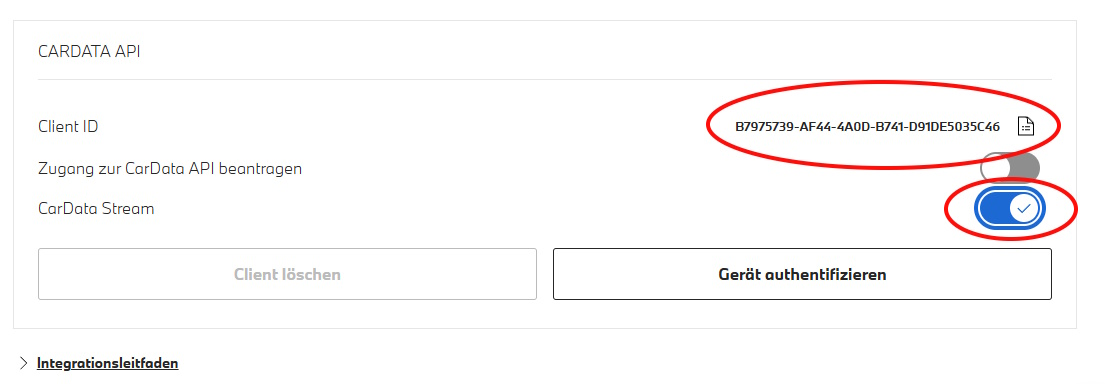
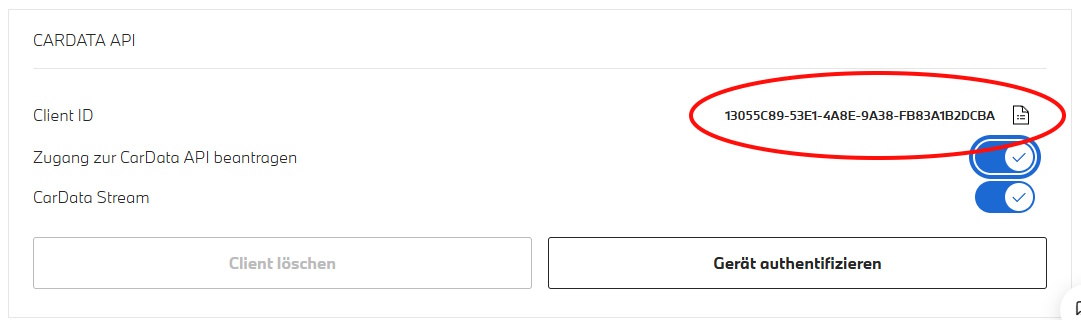
- Fix documentation

diff --git a/README.md b/README.md
@@ -71,9 +71,10 @@ Die Daten werden von BMW in Echtzeit übertragen, sobald sich einer der Werte ä
 2. Button **"CarData Client erstellen"** klicken
 3. Im sich öffnenden Fenster wird die neu erzeugte **Client-ID** angezeigt
 4. **Client-ID kopieren** und für Schritt 5 bereithalten
-5. Option **"CarData Stream"** aktivieren
-6. **Wichtig:** "Zugang zur CarData API beantragen" ist NICHT notwendig
-7. **⚠ NICHT auf den Button "Gerät authentifizieren" drücken!** (Die Authentifizierung erfolgt später über das Plugin)
+5. **Beide Optionen aktivieren:**
+   - ✅ **"CarData Stream"**
+   - ✅ **"Zugang zur CarData API beantragen"**
+6. **⚠ NICHT auf den Button "Gerät authentifizieren" drücken!** (Die Authentifizierung erfolgt später über das Plugin)
 
 > **ℹ Hinweis:** Die BMW CarData Seite hat derzeit Performance-Probleme und reagiert sehr langsam. Es können auch 10-20 Sekunden nach einem Klick noch Fehlermeldungen erscheinen. Falls dies passiert, muss der Vorgang wiederholt werden.
 
@@ -314,9 +315,10 @@ Data is transmitted by BMW in real-time as soon as any value changes. This ensur
 2. Click the **"Create CarData Client"** button
 3. The newly generated **Client ID** will be displayed in the opening window
 4. **Copy the Client ID** and keep it for step 5
-5. Activate the **"CarData Stream"** option
-6. **Important:** "Request access to CarData API" is NOT required
-7. **⚠ DO NOT click the "Authenticate Device" button!** (Authentication will be done later via the plugin)
+5. **Activate both options:**
+   - ✅ **"CarData Stream"**
+   - ✅ **"Request access to CarData API"**
+6. **⚠ DO NOT click the "Authenticate Device" button!** (Authentication will be done later via the plugin)
 
 > **ℹ Note:** The BMW CarData page currently has performance issues and responds very slowly. Error messages may appear even 10-20 seconds after a click. If this happens, the process must be repeated.
 
@@ -490,6 +492,81 @@ A: No, BMW CarData is available free of charge for BMW customers.
 
 **Q: What happens after a LoxBerry reboot?**
 A: The bridge starts automatically at system startup. Tokens are updated by the cron job every 10 minutes.
+
+---
+
+## Technical Implementation
+
+This section provides a high-level overview of the plugin's technical architecture.
+
+### Architecture Overview
+
+The plugin consists of several components:
+
+- **Web Interface** (`webfrontend/htmlauth/index.cgi`): Perl CGI script providing configuration UI and OAuth flow management
+- **OAuth Scripts** (`bin/oauth-init.pl`, `bin/oauth-poll.pl`): Handle BMW OAuth 2.0 Device Code Flow (RFC 8628)
+- **Token Manager** (`bin/token-manager.pl`): Manages automatic token refresh (runs via cron every 10 minutes)
+- **MQTT Bridge** (`bin/bmw-cardata-bridge.pl`): Daemon process that connects to BMW CarData MQTT stream and forwards messages to LoxBerry MQTT Gateway
+- **Bridge Control** (`bin/bridge-control.sh`): System script for starting/stopping/restarting the bridge daemon
+
+### OAuth 2.0 Authentication Flow
+
+The plugin uses **OAuth 2.0 Device Authorization Grant** (RFC 8628):
+
+1. **Device Code Request**: Generate PKCE challenge and request device code from BMW API
+2. **User Authorization**: User authenticates via BMW web portal using the device code
+3. **Token Polling**: Plugin polls BMW API to retrieve access token, ID token, and refresh token
+4. **Token Refresh**: Tokens are automatically refreshed every 10 minutes via cron job (valid for 1 hour, refresh token valid for 2 weeks)
+
+**Key Tokens:**
+- **Access Token**: Used for BMW CarData REST API calls (1 hour validity)
+- **ID Token**: Used as MQTT password for streaming connection (1 hour validity)
+- **Refresh Token**: Used to obtain new access/ID tokens (2 weeks validity)
+
+### MQTT Bridge Implementation
+
+The bridge uses two MQTT connections:
+
+1. **BMW CarData Connection** (`AnyEvent::MQTT`):
+   - Protocol: MQTTS (MQTT over TLS)
+   - Authentication: GCID (username) + ID Token (password)
+   - Subscribes to: `<GCID>/<VIN>` for all configured vehicles
+   - Limitation: Only ONE connection per GCID allowed by BMW
+
+2. **LoxBerry MQTT Gateway Connection** (`Net::MQTT::Simple`):
+   - Publishes to local LoxBerry MQTT broker
+   - Topic transformation: `<GCID>/<VIN>/...` → `<prefix>/<VIN>/...` (username removed)
+
+**Auto-Reconnect**: The bridge monitors `tokens.json` every 5 minutes and automatically reconnects when new tokens are detected (after cron job refresh).
+
+### Data Persistence
+
+- **`data/config.json`**: Plugin configuration (Client ID, Stream Host, VINs, MQTT prefix)
+- **`data/tokens.json`**: OAuth tokens and expiry timestamps
+- **`data/device_code.json`**: Temporary file during OAuth flow (deleted after successful authentication)
+- **`data/pkce.json`**: Temporary PKCE verifier during OAuth flow (deleted after successful authentication)
+- **`data/bridge.pid`**: PID file for bridge daemon process
+
+### Automatic Functions
+
+- **Token Refresh**: Cron job (`cron/cron.10min`) runs token-manager every 10 minutes to refresh tokens 15 minutes before expiry
+- **Bridge Auto-start**: Boot script (`cron/cron.reboot`) starts bridge daemon on system startup
+- **Graceful Shutdown**: Bridge handles SIGTERM/SIGINT for clean shutdown during plugin updates
+
+### Technology Stack
+
+- **Perl**: Core language for LoxBerry plugin development
+- **LoxBerry Modules**: `LoxBerry::System`, `LoxBerry::Web`, `LoxBerry::Log`, `LoxBerry::JSON`, `LoxBerry::IO`
+- **MQTT Libraries**: `AnyEvent::MQTT` (async BMW connection), `Net::MQTT::Simple` (LoxBerry connection)
+- **HTTP Client**: `LWP::UserAgent` for BMW API calls
+- **Template Engine**: `HTML::Template` for web interface
+
+### Security Considerations
+
+- OAuth tokens stored in `data/` directory (protected by LoxBerry file permissions)
+- PKCE (Proof Key for Code Exchange) used for OAuth flow to prevent authorization code interception
+- MQTT connection to BMW uses TLS encryption
+- No credentials stored in plugin code or configuration
 
 ---
 
